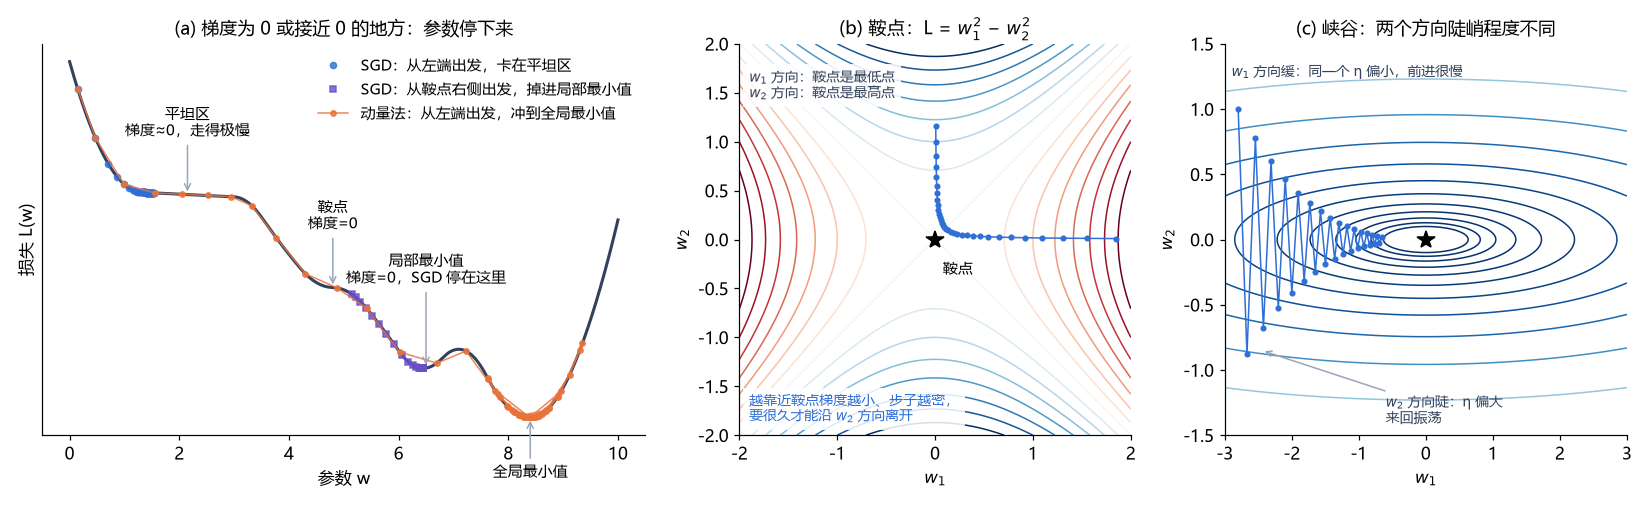
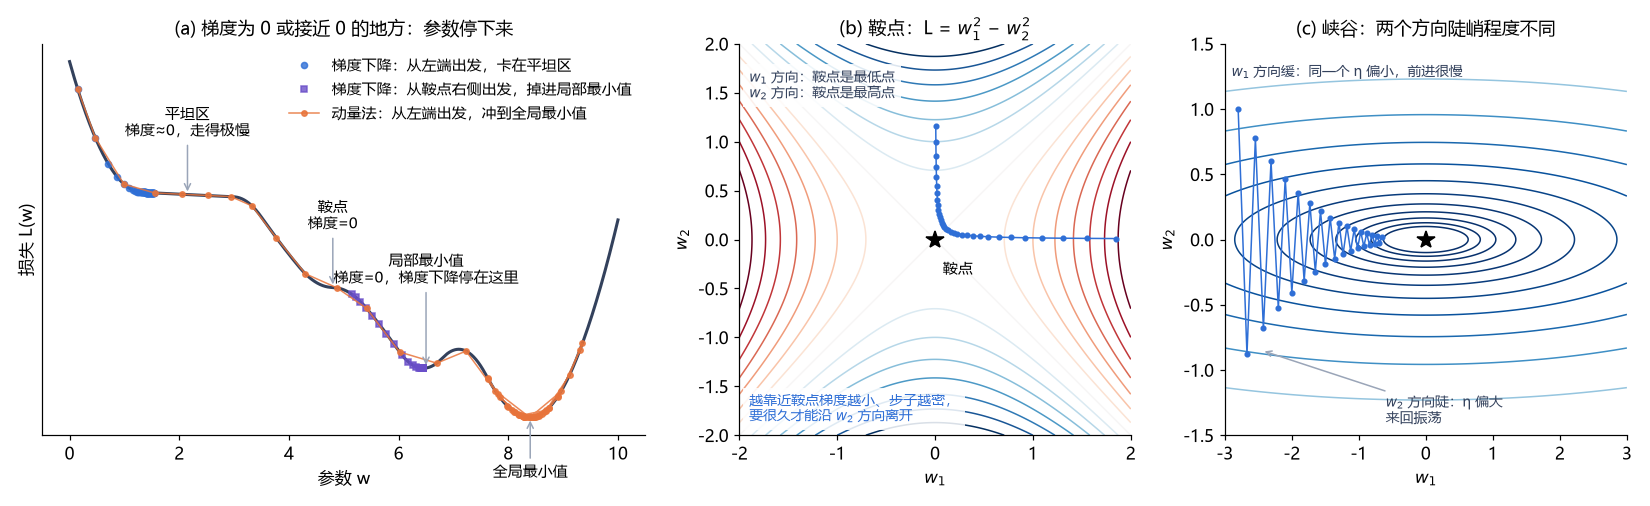
Site updated: 2026-11-18 22:13:39

Changed region(s): [[0.1855, 0.1186, 0.3709, 0.2372], [0.1855, 0.5336, 0.34, 0.5632]]

diff --git a/courses/deep-learning-foundations/network-training/index.html b/courses/deep-learning-foundations/network-training/index.html
@@ -727,13 +727,14 @@ g^{t}=\nabla_\theta L_{\text{batch}}(\theta^{t}),\qquad \theta^{t+1}\leftarrow\t
 
 <p>记号约定（后面各优化器都沿用）：上标 t 表示第 t 次更新；θᵗ 是此时的全部参数；<strong>gᵗ 是在 θᵗ 处、用当前这个 batch 算出的梯度向量</strong>，与 θ 形状相同，每个分量 $g_i^{t}$ 对应一个参数 θᵢ；η 是学习率。</p>
 <p><strong>所有 batch 都看过一遍称为一个 epoch</strong>，每个 epoch 之后通常重新打乱数据。日常说的 “SGD” 往往就是指小批量梯度下降。</p>
-<h3 id="4-3-SGD-的困难"><a href="#4-3-SGD-的困难" class="headerlink" title="4.3 SGD 的困难"></a>4.3 SGD 的困难</h3><p>SGD 每一步只做一件事：从当前位置沿负梯度方向走 $\eta g^{t}$。这条规则有两个隐含的弱点：</p>
+<h3 id="4-3-梯度下降的困难"><a href="#4-3-梯度下降的困难" class="headerlink" title="4.3 梯度下降的困难"></a>4.3 梯度下降的困难</h3><p>课件这一页的标题是 “SGD: Problem”，但正如 4.2 节末尾所说，这里的 “SGD” 泛指 $\theta^{t+1}\leftarrow\theta^{t}-\eta g^{t}$ 这条更新规则。下面的困难来自规则本身，<strong>BGD、SGD、Mini-batch GD 都会遇到</strong>，三者的差别只在于 g 用多少样本估计。小 batch 带来的梯度噪声偶尔能把参数从鞍点或浅坑里“抖”出来（见 4.2 节表格），但这是碰运气，不能系统地解决问题；没有噪声的 BGD 反而最容易被困住。</p>
+<p>这条规则每一步只做一件事：从当前位置沿负梯度方向走 $\eta g^{t}$。它有两个隐含的弱点：</p>
 <ol>
 <li><strong>只看当前这一点的梯度</strong>：梯度小，步子就小；梯度为 0，参数就完全停下，不管远处是否还有更低的地方；</li>
 <li><strong>所有参数共用同一个学习率 η</strong>：不管某个方向是陡还是缓，步长都按同一个比例缩放。</li>
 </ol>
 <p>下面几种损失地形分别会暴露这两个弱点：</p>
-<p><img src="/images/courses/deep-learning-foundations/sgd-difficulties.png" srcset="/img/loading.gif" lazyload alt="SGD 在平坦区、鞍点、局部最小值和峡谷中的表现"><br><em>(a) 一维损失曲线上的三条轨迹：蓝色 SGD 从左端出发，在平坦区挪不动；紫色 SGD 从鞍点右侧出发，掉进局部最小值后停住；橙色动量法从左端出发，靠惯性冲过平坦区、鞍点和局部小坑，到达全局最小值。(b) 二维鞍点：从右侧出发的 SGD 越靠近鞍点步子越密，要很久才沿 $w_2$ 方向离开。(c) 峡谷：学习率只能迁就陡峭的 $w_2$ 方向，于是 $w_2$ 来回振荡，$w_1$ 方向却前进得很慢。</em></p>
+<p><img src="/images/courses/deep-learning-foundations/sgd-difficulties.png" srcset="/img/loading.gif" lazyload alt="普通梯度下降在平坦区、鞍点、局部最小值和峡谷中的表现"><br><em>(a) 一维损失曲线上的三条轨迹：蓝色为普通梯度下降，从左端出发，在平坦区挪不动；紫色也是普通梯度下降，从鞍点右侧出发，掉进局部最小值后停住；橙色动量法从左端出发，靠惯性冲过平坦区、鞍点和局部小坑，到达全局最小值。(b) 二维鞍点：从右侧出发的梯度下降越靠近鞍点步子越密，要很久才沿 $w_2$ 方向离开。(c) 峡谷：学习率只能迁就陡峭的 $w_2$ 方向，于是 $w_2$ 来回振荡，$w_1$ 方向却前进得很慢。</em></p>
 <table>
 <thead>
 <tr>
@@ -749,12 +750,12 @@ g^{t}=\nabla_\theta L_{\text{batch}}(\theta^{t}),\qquad \theta^{t+1}\leftarrow\t
 </tr>
 <tr>
 <td>鞍点</td>
-<td>梯度为 0 但不是最小值：沿一个方向是谷底，沿另一个方向是山顶（图 b）。附近梯度很小，SGD 要很久才能离开。高维网络中鞍点远比局部最小值常见</td>
+<td>梯度为 0 但不是最小值：沿一个方向是谷底，沿另一个方向是山顶（图 b）。附近梯度很小，要很久才能离开。高维网络中鞍点远比局部最小值常见</td>
 <td>只看当前梯度</td>
 </tr>
 <tr>
 <td>局部最小值</td>
-<td>四周都比它高，梯度为 0；SGD 停在这里，看不到远处更低的谷底（图 a 紫点）</td>
+<td>四周都比它高，梯度为 0；参数停在这里，看不到远处更低的谷底（图 a 紫点）</td>
 <td>只看当前梯度</td>
 </tr>
 <tr>
@@ -799,7 +800,7 @@ g^{t}=\nabla_\theta L_{\text{batch}}(\theta^{t}),\qquad \theta^{t+1}\leftarrow\t
 </tr>
 </tbody></table>
 <p>先解决第一个弱点。现实世界中，从山坡滚下的小球不会在平地上立刻停住，惯性会带它冲过小坑和平台。把这个现象引入梯度下降，就得到动量法。</p>
-<h3 id="4-4-动量法-SGD-with-Momentum"><a href="#4-4-动量法-SGD-with-Momentum" class="headerlink" title="4.4 动量法 SGD with Momentum"></a>4.4 动量法 SGD with Momentum</h3><p>普通 SGD 每一步的移动量就是 $-\eta g^{t}$，只看当前梯度，上一步怎么走的完全不管。动量法额外维护一个<strong>移动量（也叫速度）m</strong>，它和参数 θ 形状相同，记录“参数最近一直在往哪个方向、以多快的速度移动”。每一步的移动量 &#x3D; <strong>保留一部分上一步的移动量 + 当前梯度给出的新方向</strong>：</p>
+<h3 id="4-4-动量法-SGD-with-Momentum"><a href="#4-4-动量法-SGD-with-Momentum" class="headerlink" title="4.4 动量法 SGD with Momentum"></a>4.4 动量法 SGD with Momentum</h3><p>普通梯度下降（无论 BGD、SGD 还是 Mini-batch）每一步的移动量就是 $-\eta g^{t}$，只看当前梯度，上一步怎么走的完全不管。动量法额外维护一个<strong>移动量（也叫速度）m</strong>，它和参数 θ 形状相同，记录“参数最近一直在往哪个方向、以多快的速度移动”。每一步的移动量 &#x3D; <strong>保留一部分上一步的移动量 + 当前梯度给出的新方向</strong>：</p>
 
 <div class="course-math">
 \[
@@ -831,14 +832,14 @@ m^{t+1}=\lambda m^{t}-\eta g^{t},\qquad
 </tr>
 <tr>
 <td>λ</td>
-<td>动量系数，0 到 1 之间，常取 0.9，表示上一步的移动量保留多少；λ &#x3D; 0 时退化为普通 SGD</td>
+<td>动量系数，0 到 1 之间，常取 0.9，表示上一步的移动量保留多少；λ &#x3D; 0 时退化为普通梯度下降</td>
 </tr>
 <tr>
 <td>η</td>
 <td>学习率</td>
 </tr>
 </tbody></table>
-<p>$-\eta g^{t}$ 是负梯度方向（下坡方向），和普通 SGD 一样；$\lambda m^{t}$ 就是“惯性”。在小球的比喻里，m 是小球的速度，梯度是坡度给的推力，λ 则像摩擦：每一步速度只剩原来的 λ 倍。</p>
+<p>$-\eta g^{t}$ 是负梯度方向（下坡方向），和普通梯度下降一样；$\lambda m^{t}$ 就是“惯性”。在小球的比喻里，m 是小球的速度，梯度是坡度给的推力，λ 则像摩擦：每一步速度只剩原来的 λ 倍。</p>
 <p>展开递推可以看出，移动量是此前所有梯度的指数加权和：</p>
 
 <div class="course-math">
